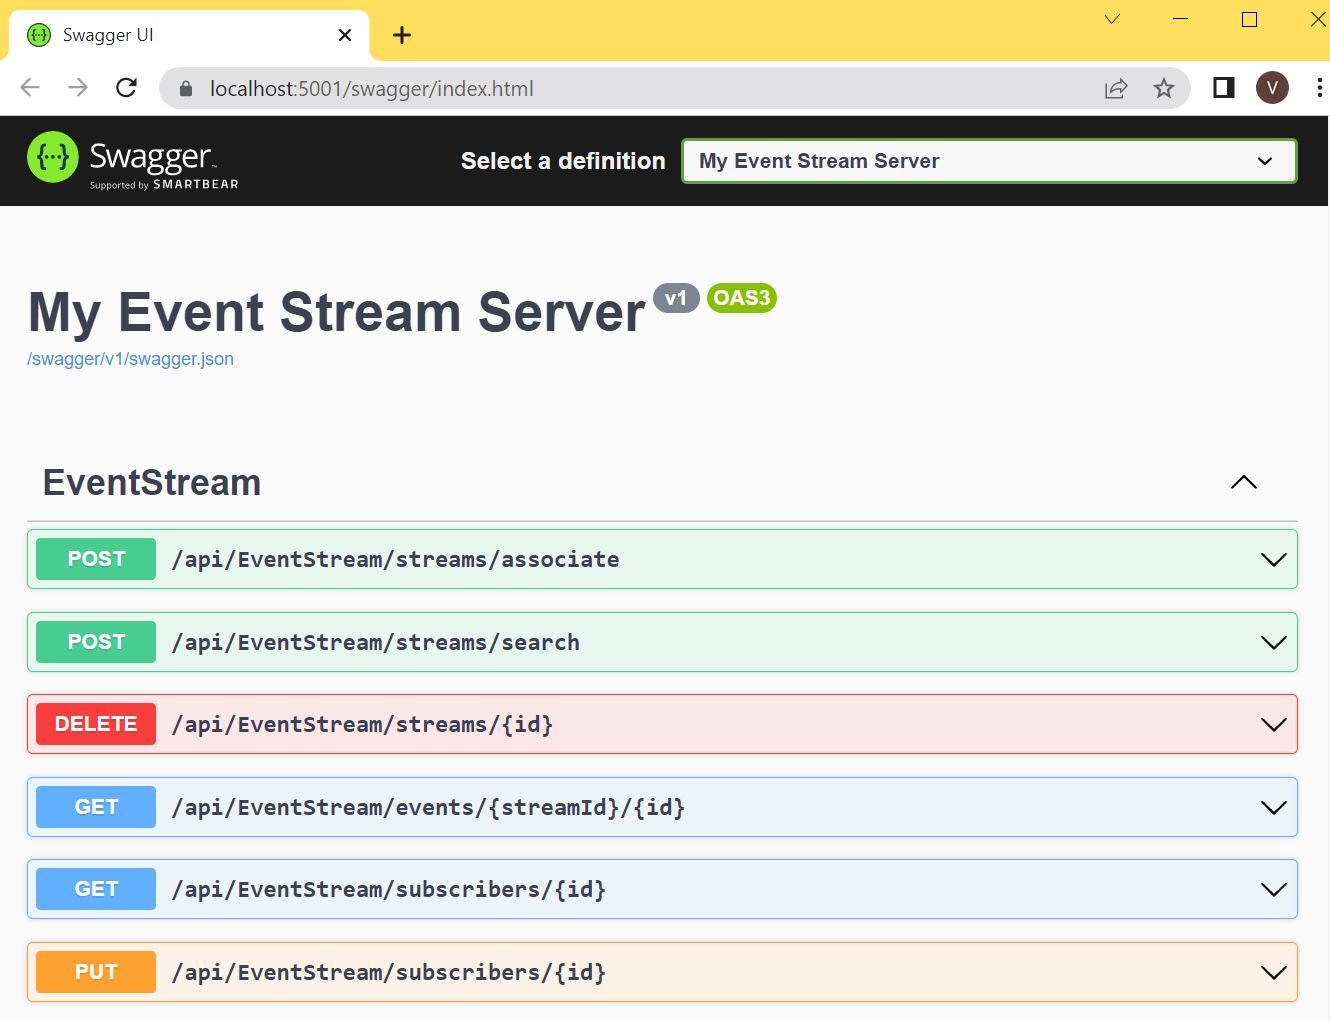
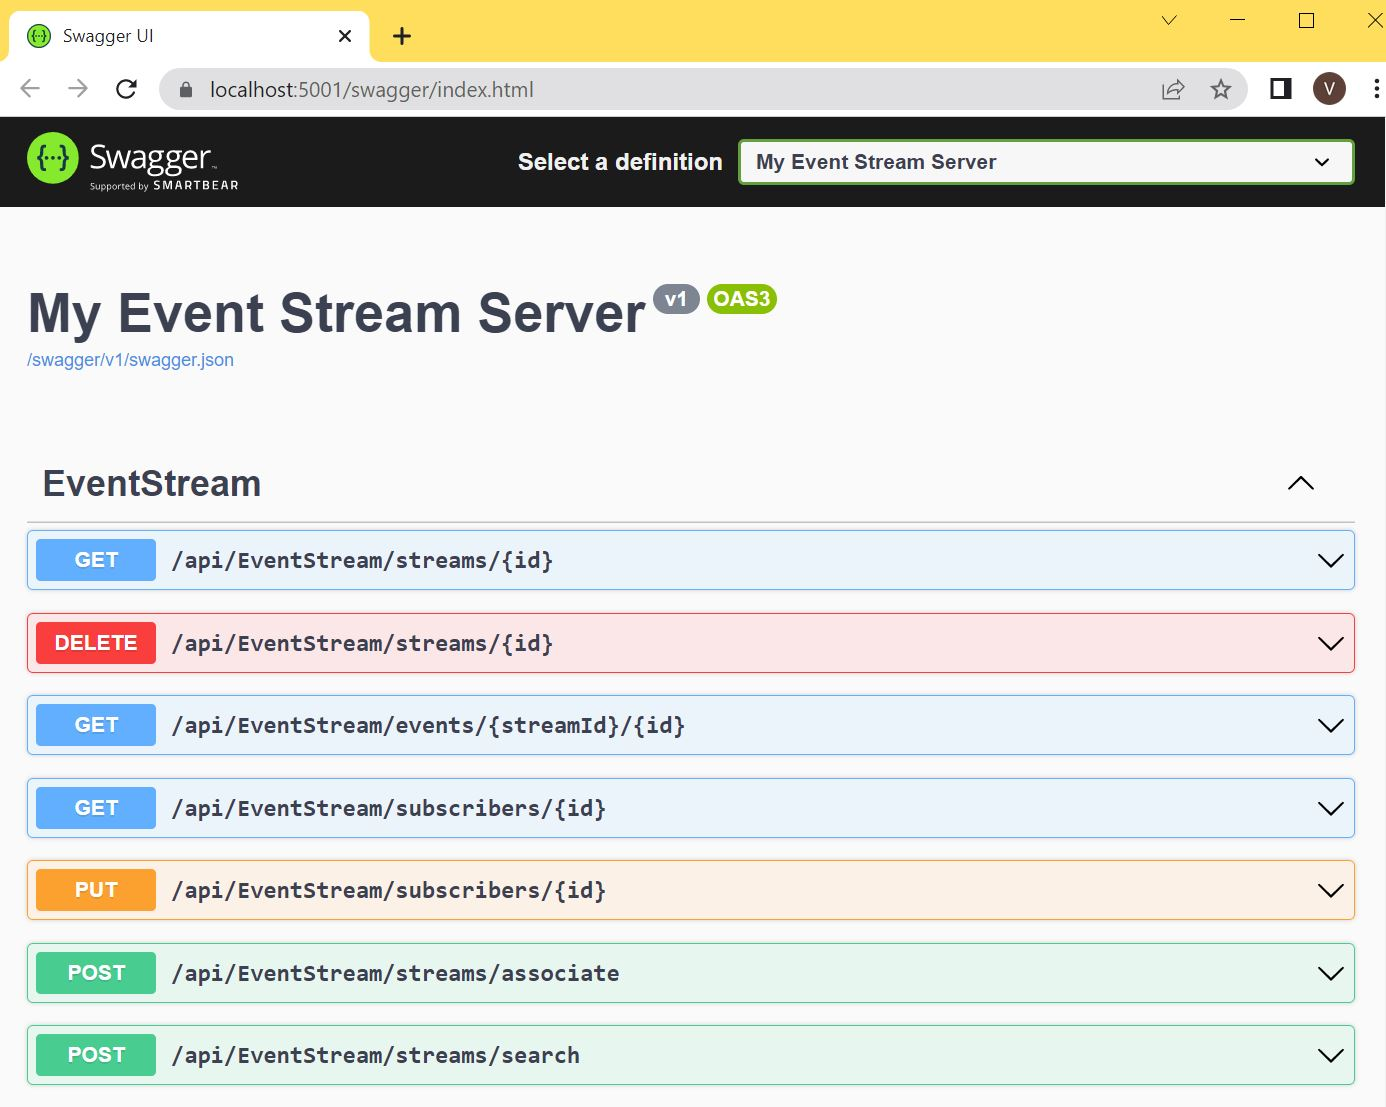
created GetStream by id http endpoint.

Changed region(s): [[0.0, 0.4247, 0.9865, 1.0], [0.0, 0.0, 1.0, 0.2123], [0.0, 0.2427, 0.5857, 0.364]]

diff --git a/AspNetCore.SignalR.EventStream/Controllers/EventStreamController.cs b/AspNetCore.SignalR.EventStream/Controllers/EventStreamController.cs
@@ -20,38 +20,16 @@ namespace AspNetCore.SignalR.EventStream.Controllers
             _logger = logger;
         }
 
-        [HttpPost("streams/associate")]
-        public async Task<IActionResult> AssociateStreams([FromBody] AssociateStreamsModel associateStreamsModel)
+        [HttpGet("streams/{id}")]
+        public async Task<IActionResult> GetStream(Guid id)
         {
-            _logger?.LogInformation($"Associating streams to stream {associateStreamsModel.Name ?? associateStreamsModel.StreamId.ToString()}");
-            var mergedStream = await _streamsService.AssociateStreamsAsync(associateStreamsModel);
-            _logger?.LogInformation($"Finished associating streams to stream {associateStreamsModel.Name ?? associateStreamsModel.StreamId.ToString()}");
+            _logger?.LogInformation($"Fetching stream {id}");
 
-            return Ok(mergedStream);
-        }
+            var stream = await _streamsService.GetStreamAsync(id);
 
-        [HttpPost("streams/search")]
-        public IActionResult SearchStreams([FromBody] SearchStreamsModel searchStreamsModel)
-        {
-            _logger?.LogInformation($"Searching streams : {JsonSerializer.Serialize(searchStreamsModel)}");
+            _logger?.LogInformation($"Finished fetching stream {id}");
 
-            var streams = _streamsService.SearchStreamsAsync(searchStreamsModel);
-
-            _logger?.LogInformation($"Finished searching streams : {JsonSerializer.Serialize(searchStreamsModel)}");
-
-            return Ok(streams);
-        }
-
-        [HttpDelete("streams/{id}")]
-        public async Task<IActionResult> DeleteStream(long id)
-        {
-            _logger?.LogInformation($"Deleting stream {id}");
-
-            await _streamsService.DeleteEventStreamAsync(id);
-
-            _logger?.LogInformation($"Finished deleting stream {id}");
-
-            return Ok();
+            return Ok(stream);
         }
 
         [HttpGet("events/{streamId}/{id}")]
@@ -75,7 +53,29 @@ namespace AspNetCore.SignalR.EventStream.Controllers
 
             _logger?.LogInformation($"Finished fetching subscriber {id}");
 
-            return Ok(subscriber);  
+            return Ok(subscriber);
+        }
+
+        [HttpPost("streams/associate")]
+        public async Task<IActionResult> AssociateStreams([FromBody] AssociateStreamsModel associateStreamsModel)
+        {
+            _logger?.LogInformation($"Associating streams to stream {associateStreamsModel.Name ?? associateStreamsModel.StreamId.ToString()}");
+            var mergedStream = await _streamsService.AssociateStreamsAsync(associateStreamsModel);
+            _logger?.LogInformation($"Finished associating streams to stream {associateStreamsModel.Name ?? associateStreamsModel.StreamId.ToString()}");
+
+            return Ok(mergedStream);
+        }
+
+        [HttpPost("streams/search")]
+        public IActionResult SearchStreams([FromBody] SearchStreamsModel searchStreamsModel)
+        {
+            _logger?.LogInformation($"Searching streams : {JsonSerializer.Serialize(searchStreamsModel)}");
+
+            var streams = _streamsService.SearchStreamsAsync(searchStreamsModel);
+
+            _logger?.LogInformation($"Finished searching streams : {JsonSerializer.Serialize(searchStreamsModel)}");
+
+            return Ok(streams);
         }
 
         [HttpPut("subscribers/{id}")]
@@ -86,6 +86,18 @@ namespace AspNetCore.SignalR.EventStream.Controllers
             await _streamsService.UpdateSubscriberAsync(id, model);
 
             _logger?.LogInformation($"Finished updating subscriber {id}");
+
+            return Ok();
+        }
+
+        [HttpDelete("streams/{id}")]
+        public async Task<IActionResult> DeleteStream(long id)
+        {
+            _logger?.LogInformation($"Deleting stream {id}");
+
+            await _streamsService.DeleteEventStreamAsync(id);
+
+            _logger?.LogInformation($"Finished deleting stream {id}");
 
             return Ok();
         }

diff --git a/AspNetCore.SignalR.EventStream/Services/EventStreamService.cs b/AspNetCore.SignalR.EventStream/Services/EventStreamService.cs
@@ -13,6 +13,25 @@ namespace AspNetCore.SignalR.EventStream.Services
             _repository = repository;
         }
 
+        public async Task<EventStreamModel> GetStreamAsync(Guid id)
+        {
+            var stream = await _repository.GetStreamAsync(id);
+
+            if (stream == null)
+                throw new InvalidOperationException($"Stream: {id} not found.");
+
+            var model = new EventStreamModel
+            {
+                CreatedAt = stream.CreatedAt,
+                Id = stream.Id,
+                LastAssociatedEventId = stream.LastAssociatedEventId,
+                Name = stream.Name,
+                StreamId = stream.StreamId
+            };
+
+            return model;
+        }
+
         public async Task<EventModel> GetEventAsync(long streamId, Guid id)
         {
             var @event = await _repository.GetEventAsync(streamId, id);

diff --git a/AspNetCore.SignalR.EventStream/Services/IEventStreamService.cs b/AspNetCore.SignalR.EventStream/Services/IEventStreamService.cs
@@ -10,5 +10,6 @@ namespace AspNetCore.SignalR.EventStream.Services
         Task UpdateSubscriberAsync(Guid subscriberId, UpdateSubscriberModel subscriberLastAccessedAtModel);
         Task<EventStreamSubscriberModel> GetSubscriberAsync(Guid subscriberId);
         Task<EventModel> GetEventAsync(long streamId, Guid id);
+        Task<EventStreamModel> GetStreamAsync(Guid id);
     }
 }

diff --git a/AspNetCore.SignalR.EventStream/Models/EventStreamModel.cs b/AspNetCore.SignalR.EventStream/Models/EventStreamModel.cs
@@ -6,7 +6,6 @@
         public Guid StreamId { get; set; }
         public string? Name { get; set; }
         public DateTimeOffset CreatedAt { get; set; }
-        public DateTimeOffset? LastEventInsertedAt { get; set; }
         public long? LastAssociatedEventId { get; set; }
     }
 }

diff --git a/README.md b/README.md
@@ -163,9 +163,9 @@ You can implement your own security for these endpoints. Read [**Authorization**
 
 You can perform Admin tasks, while the Server is running,
 
-Eg. You may want to associate multiple streams into a stream.
+Eg. You may want to get a stream by it's id.
 
-You can do so by calling the **associate** endpoint.
+You can do so by calling the **streams/{id}** endpoint.
 
 ![Event Stream Server Admin Endpoints](/Docs/ServerAdminEndpoints.jpg)
 
